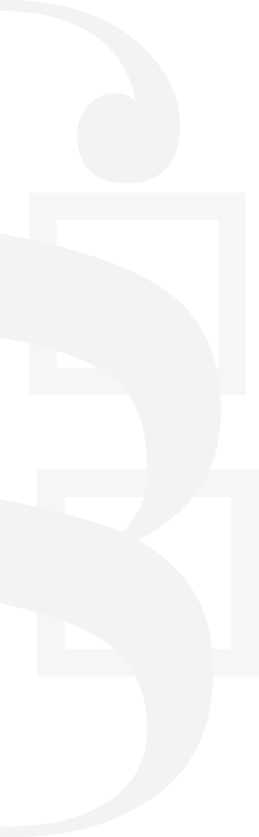
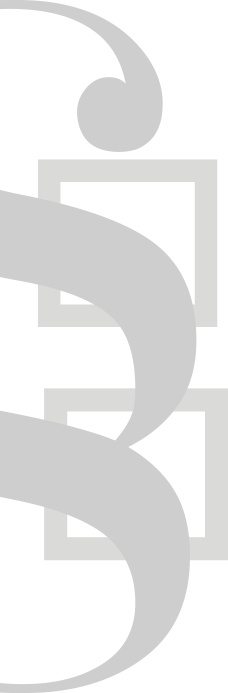
added middle section, added footercontent

diff --git a/anwaelte.html b/anwaelte.html
@@ -101,48 +101,19 @@
       </section>
 
       <section class="page-part container" id="first-section">
-        
-        
-        <h2>Erfahren seit über 30 Jahren</h2>
-        <p class="font1 container">
-        Unsere Kanzlei ist spezialisiert auf die Fachgebiete Recht und Steuern um Ihnen in betrieblichen und privaten Belangen eine optimale Leistung und Lösung bieten zu können. Wir beraten sowohl Unternehme, Gesellschafter als auch Privatpersonen in allen Fragen des Steuerrechts und Steuerstrafrechts. Die ganzheitliche steuerliche Beratung steht im Mittelpunkt unserer Arbeit. Dabei profitieren Sie von unserer 30 jährigen Erfahrung.
-        </p>
-      </section>
-
-      <section class="page-part container" id="middle-section">
         <div class="container">
           <img src="img/paragraph.png" id="bg-img-paragraph" alt="">  
         </div>
-        <div>
-          <div class="row text-center" id="picto-row">
-            <div class="col-md-4">
-              <div class="circle"><img src="img/pict/waage.png" class="picto"></div>
-              <h3>Recht</h3>
-              <hr class="dark">
-              <p class="font1">wie z.Bsp. Steuerrecht, Gesellschaftsrecht, Vertragsrecht, GmbH-Recht, Beratung und Vertretung bei Betriebsprüfungen, Vertretung gegenüber dem Finanzamt, Insolvenzrecht...</p>
-            </div>
-            <div class="col-md-4">
-              <div class="circle"><img src="img/pict/steuern.png" class="picto"></div>
-              <h3>Steuern</h3>
-              <hr class="dark">
-              <p class="font1">wie z.Bsp. Buchführung, Gehaltsabrechnung, Kostenrechnung, Jahresabschlüsse, Unternehmenssteuererklärungen, Erbschaft- und Schenkungs- steuererklärungen...</p>
-            </div><div class="col-md-4">
-              <div class="circle"><img src="img/pict/unfall.png" class="picto"></div>
-              <h3>Unfallregulierung</h3>
-              <hr class="dark">
-              <p class="font1">wie z.Bsp. Prüfung, Bearbeitung und Abrechnung eines berechtigten Schadenersatzanspruches, Abwehr von unberechtigten Ansprüchen, Honorar übernimmt generische Versicherung.</p>
-            </div>
-          </div>
-        </div>
+        
+        <h2>Erfahren seit über 30 Jahren</h2>
+        <p class="font1 container">
+        Seit über 30 Jahren, stehen Ihnen die Rechtsanwälte der Kanzlei Knapp mit Rat und Tat, in verschiedenen Fachgebieten erfolgreich zur Seite, um Ihnen als Mandant, eine optimale Betreuung bieten zu können. Jeder in seinem Fach spezialisiert, wie z. Bsp. Kündigungsschutzrecht, Verkehrsstraf- und Ordnungswidrigkeitenrecht, Insolvenzrecht, Familienrecht, Arbeitsrecht, Forderungseinzug, Verbraucherinsolvenz Betäubungsmittelstrafrecht, Jugendstrafrecht, Kapitalstrafrecht, Revision in Strafsachen, Straf- und Strafverfahrensrecht, Umweltstrafrecht, Wirtschaftsstrafrecht und Opferrecht, um Ihnen in jeder Lebenslage weiterhelfen zu können.
+        </p>
       </section>
-
-
-
-      <section class="page-part container" id="second-section" >
+      <section class="page-part container" id= "second-section" >
         <h3 class="container">Wir suchen für unsere Bürogemeinschaft Rechtsanwälte <br class="hidden-xs hidden-sm">und freuen uns über Ihre Kontaktaufnahme.</h3>
         <p class ="text-center font1 container" >
-          Sind ihre Fachgebiete, Steuerrecht oder Verkehrsrecht?<br>
-          dann freuen wir uns über Ihre aussagekräftige Bewerbung
+          Lorem ipsum dolor sit amet, consetetur sadipscing elitr, sed diam nonumy eirmod tempor invidunt ut labore et dolore magna aliquyam erat, sed diam voluptua.
         </p>
         <div class="text-center">
           <button type="button" class="btn btn-light btn-lg" id="infos-btn">Weitere Infos</button>
@@ -209,12 +180,7 @@
             </div>
           </div> 
         </div>
-        <span class="blue-line visible-lg "> </span>
-         <div class=" container blue-line row text-center ">
-            <div class="col-md-2 col-md-offset-3">© KANZLEI KNAPP</div>
-            <div class="col-md-2">IMPRESSUM</div>
-            <div class="col-md-2">DATENSCHUTZERKLÄRUNG</div>
-          </div>
+        <span class="blue-line visible-lg "></span>
       </footer>
     </div>
     <!-- jQuery (Bootstrap JS plugins depend on it) -->

diff --git a/css/styles.css b/css/styles.css
@@ -186,6 +186,7 @@ div#logo-img {
  	right: 0;
  	z-index: -1;
  	margin-top: -550px;
+ 	overflow: hidden;
 }
 
 
@@ -235,13 +236,74 @@ section > h2 {
 	padding: 2% 12% 0 12%;
  }
 
- section > h3 {
+ h3 {
+ 	font-style: italic;
+ }
+
+ #second-section > h3 {
 	text-align: center;
 	font-style: italic;
 	padding: 5% 12% 0 12%;
 	color: white;
 	margin-top: 0;
 }
+
+hr {
+	border-color: #000;
+	margin-top: 10px;
+	margin-bottom: 10px;
+}
+
+/* ------------- middle section ----------*/
+
+#middle-section {
+	background-color: rgb(227,226,220);
+}
+
+#picto-row {
+	padding-left: 10%;
+	padding-right: 10%;
+	padding-top: 3%;
+	padding-bottom: 3%;
+	
+}
+
+#picto-row .col-md-4 {
+	padding-top: 5%;
+	padding-bottom: 5%;
+}
+
+.picto {
+	object-fit: contain;
+
+}
+
+img.picto{
+	width: 130px;
+  	height: 130px;
+}
+
+.circle {
+  padding-top: 25px;
+  border-width: 0px;
+  border-color: rgb(0, 0, 2);
+  border-style: solid;
+  border-radius: 50%;
+  background-color: rgb(255, 255, 255);
+  opacity: 0.702;
+  /*position: absolute;
+  left: 190px;
+  top: 1164px;*/
+  width: 180px;
+  height: 180px;
+  z-index: 24;
+  margin-left: auto;
+  margin-right: auto;
+}
+
+
+
+
 
 #bg-img-paragraph {
 	position: absolute;
@@ -250,8 +312,10 @@ section > h2 {
 	padding-top: 20px;
 	z-index: 1000;
 	overflow: hidden;
-	max-height: 600px;
+	max-height: 500px;
 	left: 0;
+	top: 400px;
+	mix-blend-mode: color-burn;
 
 }
 
@@ -384,9 +448,16 @@ footer > div > div.row {
 
 .blue-line {
 	background-color: 	#2b6a84;
-	padding-bottom: 40px;
+	height: 40px;
+	margin-left: 0;
 }
 
+footer .blue-line.row {
+	padding-top: 10px;
+	height: auto;
+	padding-bottom: 10px;
+	font-size: 80%;
+}
 
 
 
